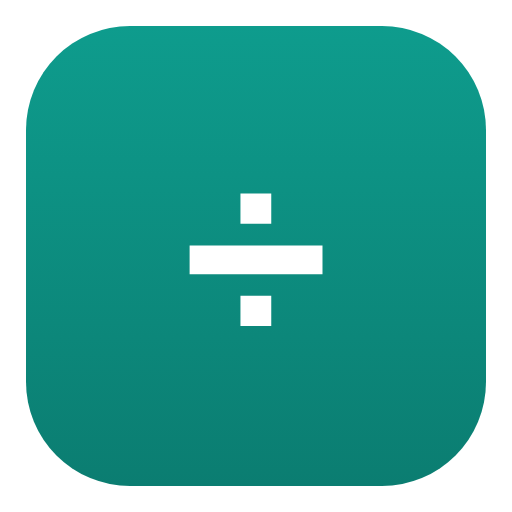
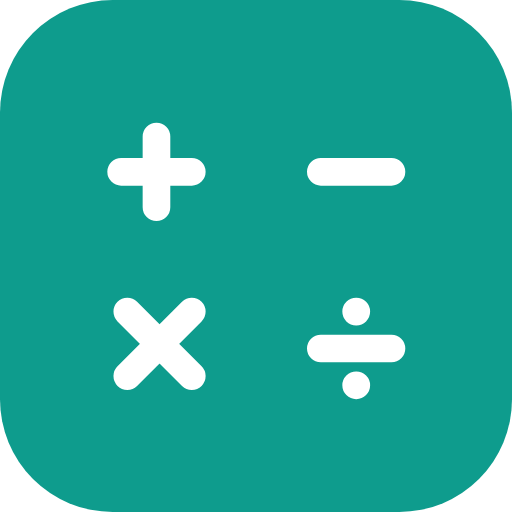
O-44 נסגר: האייקון והכרטיס הם ציור אחד בשלוש האפליקציות
הבעלים מסר לי את ההכרעה — ״תחליט ובצע״. בחרתי את **הפיקטוגרם**
בשלושתם, ולא את האות, ולשלוש סיבות שאף אחת מהן אינה טעם:

**1 · הארכיטקטורה כבר קובעת את זה.** ההערה בראש `icon.js` אומרת
במילים: ״הקלט הוא אותו SVG שנכתב ביד בדף הבית, כדי שהסמל בכרטיס
והסמל במסך הבית יהיו אותו סמל ולא שני ציורים שנפרדו עם הזמן״.
כלומר האות היא מה שסטה, והכרטיס הוא מקור האמת.

**2 · ארבע שפות.** `N` אינו אומר דבר לקורא עברית, ו-`ש` אינו
אומר דבר לקורא ערבית או רוסית. פיקטוגרם מדבר לארבעתם — וזה
הקריטריון שכל שאר האתר כבר בנוי עליו.

**3 · שמונה מתוך אחת־עשרה כבר פיקטוגרם**, נמדד אחת־אחת. שתי
האותיות והסימן היו החריגות, לא הכלל.

    math-app   ÷            →  ארבע פעולות החשבון
    math-teen  האות ש       →  מדרגות
    english    המונוגרם N   →  בועת דיבור עם גלי קול

**ובנוסף נוצרה `og.png` לכל אחת** — הסטייה דלפה גם לתמונות
השיתוף, וזה מה ש-`O-44` עצמו לא ידע: מי ששיתף את ניב בוואטסאפ
ראה `N`, ומי שהתקין אותה ראה `N`, בזמן שבכרטיס יושבת בועת דיבור.
חמישה־עשר קבצים, שלושה מפתחות.

הצבעים נלקחו מ-`theme_color` של כל מניפסט, ולכן האייקון, הכרטיס,
שורת הכתובת ותמונת השיתוף נושאים היום את אותו ערך בדיוק.

טבלת ״פתוח״ ב-`FINDINGS.md`: 24 → 23. 28/28.

Claude-Session: https://claude.ai/code/session_011iJF4neZDqRihkXjTCxgUv

diff --git a/math-app/index.html b/math-app/index.html
@@ -2100,7 +2100,7 @@ function ic(n,cl){
 /* ================= app state ================= */
 /* מספר גרסה — מופיע בתחתית המסך. מעלים אותו בכל שינוי,
    כדי לדעת מיד אם הדפדפן מציג קובץ ישן מהזיכרון. */
-var BUILD="b98 · 2026-09-14";
+var BUILD="b99 · 2026-09-14";
 var view=state.pet?"practice":"onboarding";
 var P={ses:[],qi:0,phase:"ask",wrong:[],flash:null,hints:0,results:[],ok:0,brk:false,visual:false};
 var BT={text:"",shown:0,timer:null};
@@ -4517,7 +4517,7 @@ render();
    מייצר worker חדש ומוחק את המטמון הישן מעצמו. */
 if("serviceWorker" in navigator){
   window.addEventListener("load",function(){
-    navigator.serviceWorker.register("sw.js?v=b98-pwa1").catch(function(){});
+    navigator.serviceWorker.register("sw.js?v=b99-pwa1").catch(function(){});
   });
 }
 </script>

diff --git a/english/index.html b/english/index.html
@@ -1085,7 +1085,7 @@ function ic(n,s){s=s||18;return '<svg viewBox="0 0 24 24" width="'+s+'" height="
 /* ============================================================
    4. מצב ושמירה
    ============================================================ */
-var BUILD="n85 · 2026-09-14";
+var BUILD="n86 · 2026-09-14";
 var SKEY="niv-state-v1";
 var GKEY_STORE="niv-gkey";
 
@@ -5492,7 +5492,7 @@ render();
    מייצר worker חדש ומוחק את המטמון הישן מעצמו. */
 if("serviceWorker" in navigator){
   window.addEventListener("load",function(){
-    navigator.serviceWorker.register("sw.js?v=n85-pwa1").catch(function(){});
+    navigator.serviceWorker.register("sw.js?v=n86-pwa1").catch(function(){});
   });
 }
 </script>

diff --git a/math-teen/index.html b/math-teen/index.html
@@ -1477,7 +1477,7 @@ function ic(name,size){
    4. מצב האפליקציה ושמירה מקומית
    הכול נשמר במכשיר בלבד — אין שרת ואין חשבון.
    ============================================================ */
-var BUILD="t92 · 2026-09-14";
+var BUILD="t93 · 2026-09-14";
 var KEY="shlav-state-v1";
 
 function blankState(){
@@ -7812,7 +7812,7 @@ render();
    מייצר worker חדש ומוחק את המטמון הישן מעצמו. */
 if("serviceWorker" in navigator){
   window.addEventListener("load",function(){
-    navigator.serviceWorker.register("sw.js?v=t92-pwa1").catch(function(){});
+    navigator.serviceWorker.register("sw.js?v=t93-pwa1").catch(function(){});
   });
 }
 </script>

diff --git a/FINDINGS.md b/FINDINGS.md
@@ -42,7 +42,6 @@
 | O-29 | **סוג המשתמש אינו מגיע לג׳וש.** האישיות מבקשת להתאים טון לתלמיד, למורה, להורה וללומד עצמאי, ואין שדה כזה בפנייה: `readBody` מקבל `app`, `lang`, `target`, `q` ו-`messages` בלבד. הפתרון היום הוא הסקה מהטקסט, וזה מה שכתוב ב-`CORE` | זניח | `readBody` ב-`tutor-api/worker.js`; `JOSH.md`, ״ההקשר שג׳וש מקבל״ | החלטה אם שווה את המחיר: השדה נוגע ב-11 קריאות `TUTOR.mount` (11 קובצי `index.html`), ב-`tutor/tutor.js` שיושב ב-`PRE` של 12 קובצי `sw.js`, ולכן ב-12 מפתחות קאש. הדפדפן ממילא אינו יודע מי הלומד — אין הרשמה — למעט מצב מורה |
 | O-30 | **זיהוי שפה אוטומטי בבוט — נשקל ולא אומץ.** ההגדרה ביקשה שג׳וש יענה בשפה שבה נכתבה ההודעה; היום הוא עונה בשפה שהלומד בחר בממשק (`lang`). `tutor/tutor.js` בוחר את קול ההקראה לפי אותו שדה ולא לפי הטקסט שחזר, ולכן תשובה ברוסית בפאנל עברי תוקרא בקול עברי; ובלימודי שפה תלמיד כותב באנגלית מפני שזה התרגיל, ו-`target` קיים בדיוק להבחנה הזאת | זניח | `tutor/tutor.js:43` ו-`:328` (`VOICE[lang()]`); `contextBlock` ב-`worker.js:307` | החלטת מוצר. אם כן — צריך גם לבחור קול לפי שפת התשובה ולא לפי הממשק, ולהחריג את `english` ו-`ulpan` |
 | O-43 | **תנאי סיום המבצע אינו נמדד.** הבעלים קבע 10.9 ״לא תהיה גבייה עד ל-10,000 מבקרים״, ואין באתר ספירת מבקרים: GoatCounter הוסר מכל הדפים באותו יום, ו-`launch.js` שולח ל-`window.goatcounter` שאינו קיים — no-op שקט | **קריטי** | `grep -rl gc.zgo.at` מחזיר `launch.js` ו-`tests/launch.test.html` בלבד (הקריאה המוגנת, לא הסקריפט); `launch.js:48` | החלטת הבעלים: ספירה חוזרת (ואז החרגה מפורשת לכלל 3), או מקור חיצוני — Cloudflare/GitHub — או ויתור על התנאי המספרי |
-| O-44 | **בשלוש אפליקציות האייקון והסמל בכרטיס אינם אותו ציור.** `math-teen` נושא במסך הבית את האות ״ש״ ו-`english` את האות ״N״, בזמן שב-`ICONS` כתובים להן מדרגות ובועת דיבור; `math-app` נושא `÷` ובכרטיס שלו פעולות חשבון. זה בדיוק מה ש-`.claude/qa/icon.js` נועד למנוע, ובשמונה האחרות זה מוחזק | חשוב | דגימת `icon-512.png` מול `ICONS` ב-`index.html`; `.claude/qa/README.md` בסעיף האייקונים | הכרעה של הבעלים: האם פניה של ניב הן המונוגרם N או בועת הדיבור. אין כאן באג — יש שתי תשובות נכונות. מי שמכריע מריץ `icon.js` ומעלה גרסה |
 | O-45 | **`math-teen` (`#4f46e5`) ו-`lomda` (`#4338ca`) ב-ΔE 8.4** — הזוג הקרוב ביותר בתיק, מתחת לרף ה-15 שבו שאר הזוגות יושבים. שניהם אינדיגו ונבדלים בעיקר בכהות. בדף הבית הם בכרטיסים מרוחקים, אבל במסך הבית של הטלפון הם זה לצד זה | זניח | חישוב ΔE76 על `theme_color` של אחת-עשרה האפליקציות, 10.9.2026; `BRANDING.md` בסעיף ״כמה רחוק זה מספיק רחוק״ | החלטה איזו מהשתיים זזה. שתיהן קדמו ל-`BRANDING.md` ואף אחת אינה שגויה בפני עצמה, ולכן זו אינה תקלה אלא בחירה |
 | O-47 | **פרויקט JOSH — שבעה שלבים אושרו, שלב 0 בלבד בוצע.** הבעלים אישר 12.9.2026 סדר בנייה: 0 כתיב · 1 סגירת המוח השני · 2 שכבת פנים (עיצוב 2, צרכנית אירועים בלבד: `speakstart`/`speakend`/`thinking`/`correct`/`wrong`/`listening`/`idle`, בלי החלטות לימודיות) · 3 `josh-state.js` (`ok`/`slow`/`stuck`/`frustrated`, מקומי למפגש, **אסור בנתיב מבחן כיתתי**) · 4 התאמה למצב הלומד דרך `CORE` שבשרת (אורך, מורכבות, דוגמאות, קצב, עידוד — סימני למידה בלבד, לא אבחון) · 5 **חוזה** לספק חיפוש עתידי · 6 הפצה · 7 ״תאוריה מדברת״. הורה במפורש: שלב אחד לסשן | **קריטי** | הודעת הבעלים 12.9.2026; הדוח שקדם לה | **בוצעו: 0, 1, 2, 6, 3, 4, 5** — בסדר הזה. **6 הוקדם ל-13.9.2026** בהוראת הבעלים (״תיצר לנו את ג׳וש עד הסוף ותוסיף אותו לאתר ולכל אפליקציה״), ולכן ההפצה קדמה ל-3. **שלב 7 בנוי ונעול, וממתין לפקודה אחת של הבעלים** — `git apply tutor-api/theory.patch` בריפו הנפרד, שאינו נגיש מכאן (`O-9`). **וההפצה של שלב 3 הושלמה** — נמדד 14.9.2026 בשלוש דרכים: תשע תגיות `<script src="/tutor/josh-state.js">`, תשעה נתיבים ב-`PRE`, ו-`node .claude/qa/joshstate.js` שמדווח ״תשע אפליקציות מחווטות, 0 ממצאים״. תשע הן `APPS9` בדיוק (`engine.js:40`) — משפחת החידון המלאה. `bagrut-806`, `reader` ו-`kotvim` אינן בה ואין להן זמני תשובה למדוד, ולכן זו כיסוי מלא ולא פער. **אין לדלג ואין לאחד שלבים** |
 | O-48 | **הכרעת החיפוש: אין ספק, ואין אשליה.** הבעלים פסל 12.9.2026 את חיבור ויקיפדיה ואת כל ספק חיפוש חיצוני — אין חיפוש מהדפדפן, אין קריאת API נוספת, ואין להציג ״אני בודק״. ג׳וש שאינו יודע אומר ״אני לא בטוח בתשובה הזאת״. ״רגע, אני רוצה לבדוק״ מותר **רק** כשיצאה בקשה בפועל. **והיכולת כבר קיימת בקוד ואינה מחוברת** — `josh-engine.js:1041` פונה ל-`he.wikipedia.org`, ו-`Josh.provider(fn)` (שורה 985) הוא וו להחלפת ספק | **קריטי** | הודעת הבעלים 12.9.2026; `grep -n "wikipedia\|provider" josh-engine.js` | **נתיב הדפדפן נסגר 12.9.2026 בשלב 1**, ונאכף ב-`node .claude/qa/brain.js` בדיקה 2 (`wikipedia.org` או `_searchProvider` בקוד שדף טוען). **וחוזה שלב 5 נסגר 13.9.2026** (ראו רשומת הסגירה): השדה הוא `checked`, הוא נגזר מ-`PROVIDER` ולא כתוב קשיח, והחוזה המלא — קלט, פלט, חמש שגיאות, timeout, מגבלות, הפרדה מהגלאי והחלפת ספק — ב-`tutor-api/SEARCH.md`. `node .claude/qa/search.js` אוכף שש בדיקות, ובהן שאין ניסוח של ״בודק״ במילון הממשק בארבע השפות. **מה שנשאר: ספק עצמו — החלטת הבעלים, ולא פער** |
@@ -51,6 +50,32 @@
 | O-51 | **לדף הבית אין מוח, וגם לא היה לו — ול-`ROLE` שבשרת אין רשומה עבורו.** שלב 1 ניתק את `josh-engine.js`, וההנחיה אמרה ״דף הבית ימשיך להשתמש ב-`tutor/` כמוח היחיד״ — אבל הוא **מעולם לא השתמש בו**: אין תגית `<script src="/tutor/tutor.js">`, אין `TUTOR.mount`, ו-`/tutor/tutor.js` אינו ב-`PRE` של ה-worker בשורש. חיווט בוט לדף הבית אינו הסרה אלא **תוספת**, והיא דורשת רשומת `ROLE` חדשה בשרת — `readBody` מחזיר `null` (ומכאן 400) לכל `app` שאינו באחד משלושה־עשר המזהים. **והבעלים הכריע 12.9.2026, עקרונית: כן — ג׳וש יהיה גם בדף הבית, ולא כמקצוע לימודי.** `ROLE = home / guide`: לקבל משתמש חדש ולברך אותו, לשאול מה הוא רוצה ללמוד, להסביר בקצרה מה המערכת מציעה, לעזור לבחור אפליקציה, לעזור למי שאינו יודע מאיפה להתחיל, לענות על שאלות כלליות על המערכת, ולהפנות לאפליקציה המתאימה — בשפה פשוטה ומותאמת לרמת המשתמש. **הוא אינו פותר תרגילים ואינו מורה למקצוע.** זו הבחנה מבנית ולא ניסוח: שתים־עשרה הרשומות הקיימות ב-`ROLE` הן מקצוע, וזו הראשונה שהיא שער. | חשוב | `readBody` ב-`tutor-api/worker.js:311`; שלושה־עשר מפתחות `ROLE` ב-`:70`; אימות בדפדפן 12.9.2026 — `typeof window.TUTOR` בדף הבית מחזיר `undefined`; הכרעת הבעלים 12.9.2026 | **ההחלטה התקבלה, היישום לא אושר ואינו בשלב 1.** הבעלים הורה במפורש: אין להוסיף `ROLE`, אין לשנות `worker.js`, ואין לחבר `TUTOR.mount` בדף הבית — קודם נסגר שלב 1. כשיאושר: רשומת `ROLE` בשרת, `/tutor/tutor.js` ב-`PRE` של השורש, תגית, `mount`, כפתור, ומפתח הקאש של השורש |
 | O-54 | **הדיוקן הוא הרנדר, והמסכות נמדדות לפי התמונה — שונה מיסודו 14.9.2026.** הבעלים שלח רנדר תלת־ממד ואמר ״תן לו חיים״, ואחריו ״ציור ילדותי״ על הגרסה המצוירת. `img/josh-bot.jpg` (200×300, 16,326 בתים) נחתך מהרנדר ב-canvas בדפדפן, והוא הפרצוף בשלוש־עשרה האפליקציות. **וההסתייגות שהממצא הזה נשא — ״אי אפשר לחתוך עיניים עצומות מפריים אחד״ — כבר לא תקפה כאן:** המצמוץ ותנועת הלסת עובדים על הרנדר בדיוק כמו על התצלום, אחרי ששלוש המסכות הפכו למשתני CSS ו-`photo(url, marks)` מקבל כיול ומאמת אותו. הכיול נמדד ואומת בעין — ראו `MARKS_BOT`. `img/josh.jpg` והרובוט המצויר נשארים כנפילה לאחור, שניהם שורה אחת משם | חשוב | `img/josh-bot.jpg`; `JOSHFACE.MARKS_BOT`; אימות בדפדפן 14.9.2026 — העפעפיים סוגרים את שתי העיניים, הלסת זזה ב״מדבר״ | **ארבעה רנדרים נוספים, ועכשיו הם זולים.** מה שחסם את הממצא היה ״ארבעה תצלומים של אותה דמות באותה תאורה ובאותו מסגור״, וזה כמעט בלתי אפשרי במצלמה. **עם מודל תלת־ממד זה חינם:** אותה תאורה, אותה מצלמה, ורק ההבעה משתנה — עיניים עצומות · חיוך סגור · פה פתוח קלות · פה פתוח לדיבור. ואז `josh-face.js` יחליף שכבות במקום למסך. ובנוסף: 200×300 הוא על הגבול למסך 2× |
 ## נסגר — עם ההוכחה
+
+### O-44 — האייקון והכרטיס הם ציור אחד · נסגר 14.9.2026
+
+**ההכרעה נמסרה לי במפורש:** ״תחליט ובצע״. בחרתי את **הפיקטוגרם**
+בשלושתם, ולא את האות, ולשלוש סיבות שאף אחת מהן אינה טעם:
+
+1. **הארכיטקטורה כבר קובעת את זה.** `node .claude/qa/icon.js`
+   שואב את ה-`path` מ-`ICONS` שבדף הבית — ההערה בראשו אומרת
+   ״כדי שהסמל בכרטיס והסמל במסך הבית יהיו אותו סמל ולא שני
+   ציורים שנפרדו עם הזמן״. האות היא מה שסטה, לא הסמל.
+2. **ארבע שפות.** `N` אינו אומר דבר לקורא עברית, ו-`ש` אינו
+   אומר דבר לקורא ערבית או רוסית. פיקטוגרם מדבר לארבעתם.
+3. **שמונה מתוך אחת־עשרה כבר פיקטוגרם** — נמדד אחת־אחת. שתי
+   האותיות והסימן היו החריגות.
+
+מה שנוצר מחדש: ארבעה אייקונים לכל אחת משלוש האפליקציות,
+**ובנוסף `og.png` לכל אחת** — הסטייה דלפה גם לתמונות השיתוף,
+וזה מה ש-`O-44` לא ידע. סה״כ חמישה־עשר קבצים, שלושה מפתחות.
+
+    math-app   ÷                →  ארבע פעולות החשבון
+    math-teen  האות ש           →  מדרגות
+    english    המונוגרם N       →  בועת דיבור עם גלי קול
+
+הצבעים נלקחו מ-`theme_color` של כל מניפסט, ולכן האייקון, הכרטיס,
+שורת הכתובת ותמונת השיתוף נושאים היום את אותו ערך בדיוק.
+
 
 ### O-33, O-38, O-40 — שלוש שורות שנסגרו ונשארו בטבלת ״פתוח״ · 14.9.2026
 

diff --git a/STATUS.md b/STATUS.md
@@ -20,14 +20,14 @@
 
 | אפליקציה | BUILD | מפתח קאש | תואם |
 |---|---|---|---|
-| `math-app` | b98 · 2026-09-14 | b98-pwa1 | תואם |
-| `math-teen` | t92 · 2026-09-14 | t92-pwa1 | תואם |
+| `math-app` | b99 · 2026-09-14 | b99-pwa1 | תואם |
+| `math-teen` | t93 · 2026-09-14 | t93-pwa1 | תואם |
 | `math-uni` | u93 · 2026-09-14 | u93-pwa1 | תואם |
 | `math-uni2` | v91 · 2026-09-14 | v91-pwa1 | תואם |
 | `math-uni3` | g91 · 2026-09-14 | g91-pwa1 | תואם |
 | `bagrut-806` | x52 · 2026-09-14 | x52-pwa1 | תואם |
 | `ulpan` | a54 · 2026-09-14 | a54-pwa1 | תואם |
-| `english` | n85 · 2026-09-14 | n85-pwa1 | תואם |
+| `english` | n86 · 2026-09-14 | n86-pwa1 | תואם |
 | `history` | m90 · 2026-09-14 | m90-pwa1 | תואם |
 | `lomda` | l77 · 2026-09-14 | l77-pwa1 | תואם |
 | `reader` | — | 60-pwa1 | מפתח בלבד |
